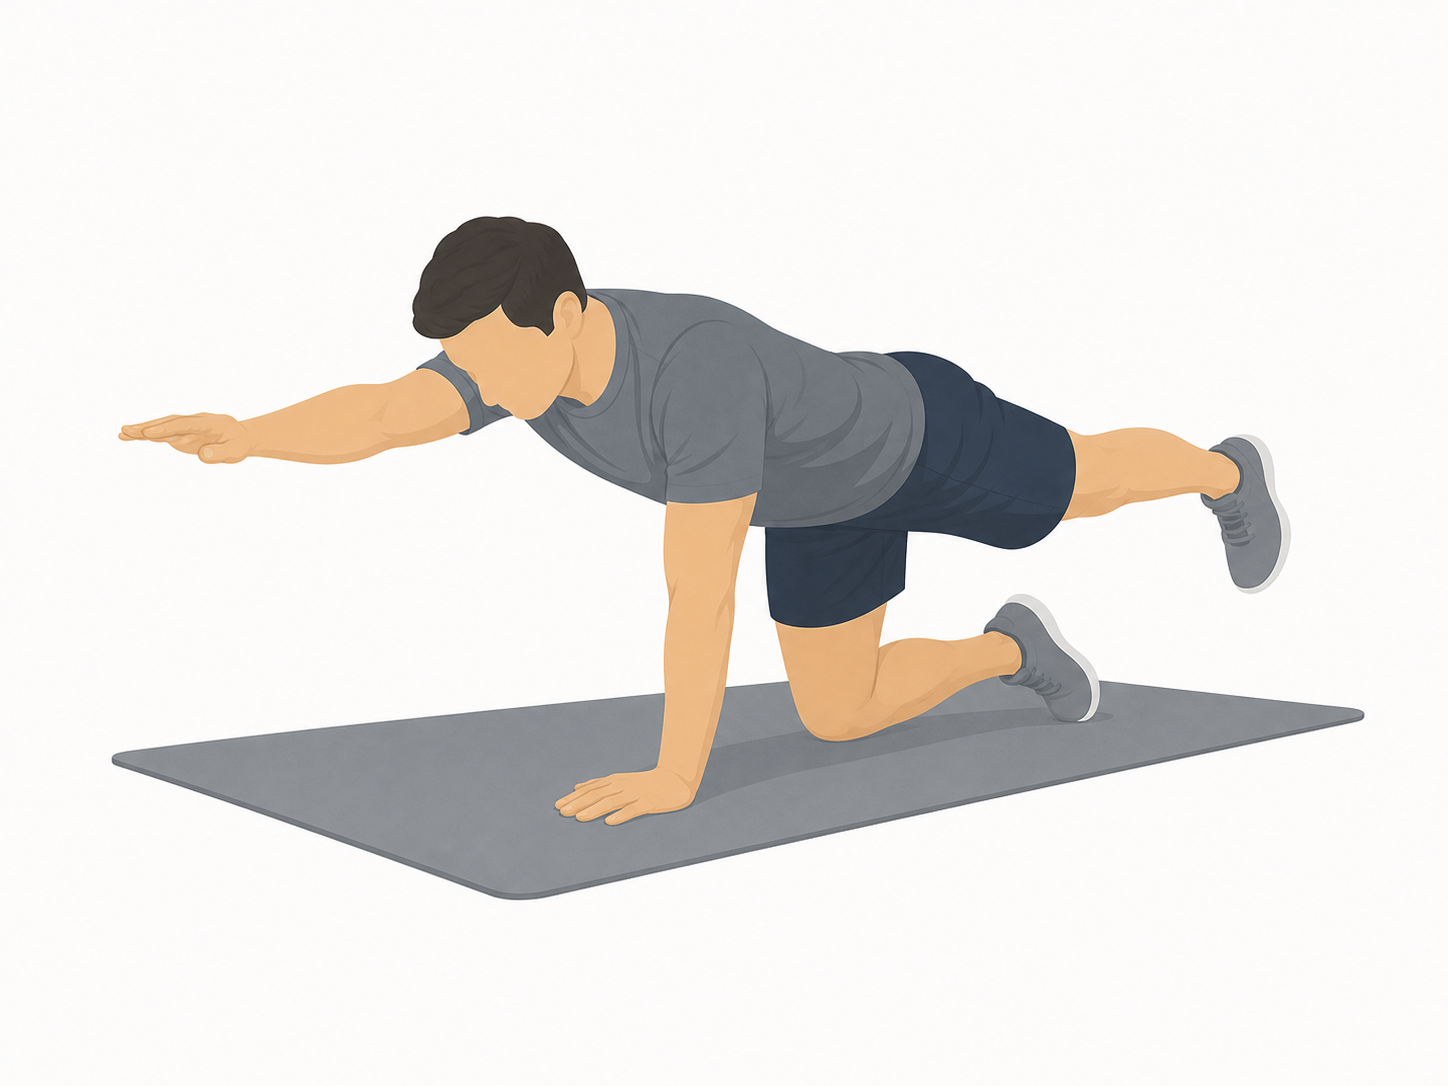
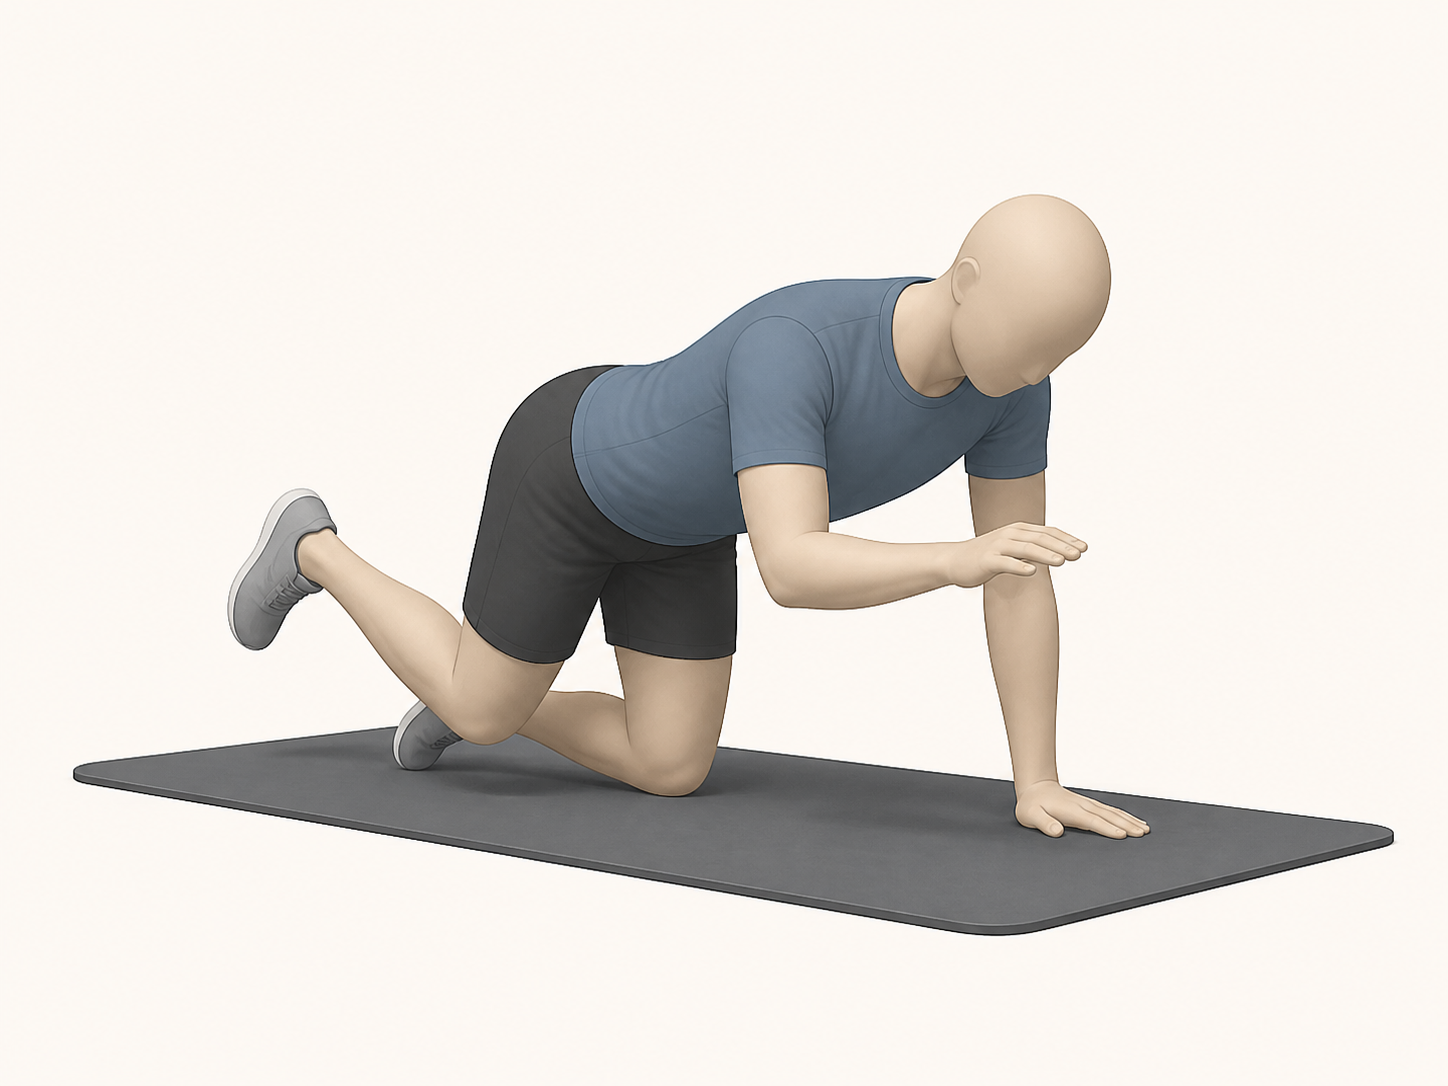
Resolve M2 top-five image review findings
Updates M2 audit scoring to the approved 1-5 range, adds regression checks for score scale drift, replaces the bird dog short-reach asset with a visibly smaller-range image, and routes M2 back to code review.

Validation: python3 -m unittest tests.test_exercise_image_standard tests.test_markdown_first_real_pages

Validation: python3 tools/checks/check_markdown_first.py exercises media/PROVENANCE.md docs/changes/2026-07-06-top-five-generated-images-for-fewer-than-five-exercise-documents docs/plan.md docs/plans/2026-07-06-top-five-generated-images-for-fewer-than-five-exercise-documents.md

Validation: python3 tools/checks/check_privacy.py exercises media/PROVENANCE.md media/prompts docs/changes/2026-07-06-top-five-generated-images-for-fewer-than-five-exercise-documents docs/plan.md docs/plans/2026-07-06-top-five-generated-images-for-fewer-than-five-exercise-documents.md

Validation: git diff --check

diff --git a/tests/test_exercise_image_standard.py b/tests/test_exercise_image_standard.py
@@ -1,5 +1,6 @@
 from pathlib import Path
 import os
+import re
 import subprocess
 import sys
 import tempfile
@@ -1187,6 +1188,21 @@ class ExerciseImageStandardTest(unittest.TestCase):
 
         audit_path = ROOT / "docs/changes/2026-07-06-top-five-generated-images-for-fewer-than-five-exercise-documents/evidence/m2-first-batch-audit.md"
         audit_text = audit_path.read_text(encoding="utf-8")
+        self.assertIn("Scores use 1-5 values", audit_text)
+        self.assertNotIn("Scores use 0-3 values", audit_text)
+        score_rows = [
+            row
+            for row in audit_text.splitlines()
+            if re.match(r"\| \d+ \|", row)
+        ]
+        self.assertGreaterEqual(len(score_rows), 20)
+        for row in score_rows:
+            cells = [cell.strip() for cell in row.strip("|").split("|")]
+            scores = [int(value) for value in cells[2:7]]
+            with self.subTest(row=row):
+                self.assertTrue(all(1 <= score <= 5 for score in scores))
+                self.assertNotIn(0, scores)
+
         for token in (
             "`exercises/band-pull-apart.md`",
             "`exercises/bird-dog.md`",

diff --git a/docs/changes/2026-07-06-top-five-generated-images-for-fewer-than-five-exercise-documents/evidence/m2-first-batch-audit.md b/docs/changes/2026-07-06-top-five-generated-images-for-fewer-than-five-exercise-documents/evidence/m2-first-batch-audit.md
@@ -16,38 +16,38 @@ This pairs one page with existing modern exercise images and one page with an ac
 
 ## Candidate scoring matrix
 
-Scores use 0-3 values for `beginner_comprehension`, `setup_value`, `muscle_attention_value`, `page_value`, and `readiness`.
+Scores use 1-5 values for `beginner_comprehension`, `setup_value`, `muscle_attention_value`, `page_value`, and `readiness`.
 Disposition values follow the M1 audit framework.
 
 ### `exercises/band-pull-apart.md`
 
 | Rank | Candidate | beginner_comprehension | setup_value | muscle_attention_value | page_value | readiness | Disposition | Rationale |
 |---:|---|---:|---:|---:|---:|---:|---|---|
-| 1 | Existing `muscle-attention.png` | 3 | 0 | 3 | 3 | 3 | existing_accepted | Broad upper-back and rear-shoulder reference already supports the muscle section. |
-| 2 | Existing `movement.png` | 3 | 1 | 0 | 3 | 3 | existing_accepted | Two-panel start and finish reference already supports the movement section. |
-| 3 | New `setup.png` | 3 | 3 | 0 | 3 | 3 | generate_now | Adds distinct setup coverage for band slack, stance, and chest-height start. |
-| 4 | New `quiet-ribs-neck.png` | 3 | 1 | 0 | 3 | 3 | generate_now | Adds posture-control coverage for neck, ribs, and arm height without duplicating muscle attention. |
-| 5 | Generated chest-height path candidate | 2 | 1 | 0 | 1 | 2 | rejected_duplicate_coverage | Too close to the existing movement reference after visual inspection. |
-| 6 | Grip-width close-up | 2 | 2 | 0 | 1 | 1 | defer | Could be useful later but is not needed for the same page section in this batch. |
-| 7 | Easier lighter-band variation | 2 | 1 | 0 | 1 | 1 | defer | The written easier-version note is sufficient for now. |
-| 8 | Return-control view | 2 | 0 | 0 | 1 | 1 | defer | Movement reference already covers the return concept indirectly. |
-| 9 | Side-view rib position | 2 | 1 | 0 | 1 | 1 | defer | Would compete with the promoted posture-control image. |
-| 10 | Equipment-only band image | 1 | 1 | 0 | 0 | 1 | reject | Equipment is simple enough in Markdown and setup image. |
+| 1 | Existing `muscle-attention.png` | 5 | 1 | 5 | 5 | 5 | existing_accepted | Broad upper-back and rear-shoulder reference already supports the muscle section. |
+| 2 | Existing `movement.png` | 5 | 2 | 1 | 5 | 5 | existing_accepted | Two-panel start and finish reference already supports the movement section. |
+| 3 | New `setup.png` | 5 | 5 | 1 | 5 | 5 | generate_now | Adds distinct setup coverage for band slack, stance, and chest-height start. |
+| 4 | New `quiet-ribs-neck.png` | 5 | 2 | 1 | 5 | 5 | generate_now | Adds posture-control coverage for neck, ribs, and arm height without duplicating muscle attention. |
+| 5 | Generated chest-height path candidate | 3 | 2 | 1 | 2 | 3 | rejected_duplicate_coverage | Too close to the existing movement reference after visual inspection. |
+| 6 | Grip-width close-up | 3 | 3 | 1 | 2 | 2 | defer | Could be useful later but is not needed for the same page section in this batch. |
+| 7 | Easier lighter-band variation | 3 | 2 | 1 | 2 | 2 | defer | The written easier-version note is sufficient for now. |
+| 8 | Return-control view | 3 | 1 | 1 | 2 | 2 | defer | Movement reference already covers the return concept indirectly. |
+| 9 | Side-view rib position | 3 | 2 | 1 | 2 | 2 | defer | Would compete with the promoted posture-control image. |
+| 10 | Equipment-only band image | 1 | 2 | 1 | 1 | 2 | reject | Equipment is simple enough in Markdown and setup image. |
 
 ### `exercises/bird-dog.md`
 
 | Rank | Candidate | beginner_comprehension | setup_value | muscle_attention_value | page_value | readiness | Disposition | Rationale |
 |---:|---|---:|---:|---:|---:|---:|---|---|
-| 1 | Existing `bird-dog-sequence.png` | 3 | 2 | 0 | 3 | 3 | existing_accepted | Sequence image already covers setup, reach, and a common form reference. |
-| 2 | New `setup.png` | 3 | 3 | 0 | 3 | 3 | generate_now | Adds a larger standalone setup reference. |
-| 3 | New `level-pelvis-reach.png` | 3 | 1 | 0 | 3 | 3 | generate_now | Adds a larger standalone controlled reach reference. |
-| 4 | New `short-reach.png` | 3 | 1 | 0 | 3 | 3 | generate_now | Supports the written shorter-reach cue. |
-| 5 | New `muscle-attention.png` | 3 | 0 | 3 | 3 | 3 | generate_now | Adds the only muscle-attention image for the page. |
-| 6 | Hands-and-knees side close-up | 2 | 2 | 0 | 1 | 1 | defer | Standalone setup image provides enough setup value. |
-| 7 | Knee-only support detail | 1 | 1 | 0 | 0 | 1 | reject | Too narrow for beginner comprehension. |
-| 8 | Slow-return frame | 2 | 0 | 0 | 1 | 1 | defer | Movement text already covers the return. |
-| 9 | Side-switching view | 2 | 0 | 0 | 1 | 1 | defer | Mirror-side detail is not necessary for this page. |
-| 10 | Mat-only setup cue | 1 | 1 | 0 | 0 | 1 | reject | Equipment is simple enough in Markdown. |
+| 1 | Existing `bird-dog-sequence.png` | 5 | 4 | 1 | 5 | 5 | existing_accepted | Sequence image already covers setup, reach, and a common form reference. |
+| 2 | New `setup.png` | 5 | 5 | 1 | 5 | 5 | generate_now | Adds a larger standalone setup reference. |
+| 3 | New `level-pelvis-reach.png` | 5 | 2 | 1 | 5 | 5 | generate_now | Adds a larger standalone controlled reach reference. |
+| 4 | New `short-reach.png` | 5 | 3 | 1 | 5 | 5 | generate_now | Supports the written shorter-reach cue. |
+| 5 | New `muscle-attention.png` | 5 | 1 | 5 | 5 | 5 | generate_now | Adds the only muscle-attention image for the page. |
+| 6 | Hands-and-knees side close-up | 3 | 3 | 1 | 2 | 2 | defer | Standalone setup image provides enough setup value. |
+| 7 | Knee-only support detail | 1 | 2 | 1 | 1 | 2 | reject | Too narrow for beginner comprehension. |
+| 8 | Slow-return frame | 3 | 1 | 1 | 2 | 2 | defer | Movement text already covers the return. |
+| 9 | Side-switching view | 3 | 1 | 1 | 2 | 2 | defer | Mirror-side detail is not necessary for this page. |
+| 10 | Mat-only setup cue | 1 | 2 | 1 | 1 | 2 | reject | Equipment is simple enough in Markdown. |
 
 ## Visual and contract evidence
 
@@ -57,7 +57,7 @@ Disposition values follow the M1 audit framework.
 | `media/exercises/band-pull-apart/quiet-ribs-neck.png` | What you should feel | No embedded writing, no brand marks, faceless figure, distinct posture-control purpose. |
 | `media/exercises/bird-dog/setup.png` | Equipment and setup | No embedded writing, no brand marks, faceless figure, clear hands-and-knees setup. |
 | `media/exercises/bird-dog/level-pelvis-reach.png` | Movement phases | No embedded writing, no brand marks, faceless figure, clear opposite arm and leg reach. |
-| `media/exercises/bird-dog/short-reach.png` | Important notes | No embedded writing, no brand marks, faceless figure, smaller controlled reach. |
+| `media/exercises/bird-dog/short-reach.png` | Important notes | No embedded writing, no brand marks, faceless figure, visibly smaller controlled reach with bent reaching limbs. |
 | `media/exercises/bird-dog/muscle-attention.png` | Used muscles | No embedded writing, no brand marks, faceless figure, broad attention regions only. |
 
 ## Rollback proof

diff --git a/docs/plans/2026-07-06-top-five-generated-images-for-fewer-than-five-exercise-documents.md b/docs/plans/2026-07-06-top-five-generated-images-for-fewer-than-five-exercise-documents.md
@@ -48,13 +48,13 @@ Repository-local `human_reviewer`, review-owner, visual-safety-review evidence, 
 ## Current Handoff Summary
 
 - Current milestone: M2
-- Current milestone state: resolution-needed
+- Current milestone state: review-requested
 - Last reviewed milestone: M1
-- Review status: code-review R3 changes-requested; M2 review-resolution required
+- Review status: code-review R3 changes-requested; M2 review-resolution completed
 - Remaining in-scope implementation milestones: M2, M3
-- Next stage: review-resolution for M2
+- Next stage: code-review M2 rereview
 - Final closeout readiness: not ready
-- Reason final closeout is or is not ready: M2 has unresolved code-review findings and M3 implementation, code-review, explain-change, verify, and PR handoff remain.
+- Reason final closeout is or is not ready: M2 needs rereview and M3 implementation, code-review, explain-change, verify, and PR handoff remain.
 
 ## Milestones
 
@@ -86,7 +86,7 @@ Repository-local `human_reviewer`, review-owner, visual-safety-review evidence, 
 
 ### M2. First Milestone Batch Images
 
-- Milestone state: resolution-needed
+- Milestone state: review-requested
 - Goal: Audit and implement generated-image gaps for the first batch of included exercise documents.
 - Requirements: R1-R30
 - Files/components likely touched:
@@ -204,6 +204,14 @@ Each milestone must report exact commands and outcomes before code-review.
 - M2 code-review R3 reviewer validation: `python3 tools/checks/check_privacy.py exercises media media/PROVENANCE.md docs/changes/2026-07-06-top-five-generated-images-for-fewer-than-five-exercise-documents` passed with 107 files.
 - M2 code-review R3 reviewer validation: `python3 tools/checks/check_markdown_first.py exercises media/PROVENANCE.md docs/changes/2026-07-06-top-five-generated-images-for-fewer-than-five-exercise-documents` passed with 32 Markdown files.
 - M2 code-review R3 reviewer validation: `git diff --check` passed.
+- M2 review-resolution for CR-T5IMG-M2-1: `python3 -m unittest tests.test_exercise_image_standard tests.test_markdown_first_real_pages` passed with 68 tests.
+- M2 review-resolution for CR-T5IMG-M2-1: `python3 tools/checks/check_markdown_first.py exercises media/PROVENANCE.md docs/changes/2026-07-06-top-five-generated-images-for-fewer-than-five-exercise-documents` passed.
+- M2 review-resolution for CR-T5IMG-M2-1: `python3 tools/checks/check_privacy.py exercises media/PROVENANCE.md media/prompts docs/changes/2026-07-06-top-five-generated-images-for-fewer-than-five-exercise-documents` passed.
+- M2 review-resolution for CR-T5IMG-M2-1: `git diff --check` passed.
+- M2 review-resolution for CR-T5IMG-M2-2: `python3 -m unittest tests.test_exercise_image_standard tests.test_markdown_first_real_pages` passed with 68 tests.
+- M2 review-resolution for CR-T5IMG-M2-2: `python3 tools/checks/check_markdown_first.py exercises media/PROVENANCE.md docs/changes/2026-07-06-top-five-generated-images-for-fewer-than-five-exercise-documents` passed.
+- M2 review-resolution for CR-T5IMG-M2-2: `python3 tools/checks/check_privacy.py exercises media/PROVENANCE.md media/prompts docs/changes/2026-07-06-top-five-generated-images-for-fewer-than-five-exercise-documents` passed.
+- M2 review-resolution for CR-T5IMG-M2-2: `git diff --check` passed.
 
 ## Outcome and retrospective
 
@@ -211,7 +219,7 @@ Not started.
 
 ## Readiness
 
-M2 needs review-resolution. M3 remains pending and must not start until M2 passes rereview.
+M2 review-resolution is complete and ready for rerun code-review. M3 remains pending and must not start until M2 passes rereview.
 
 ## Sources
 

diff --git a/docs/changes/2026-07-06-top-five-generated-images-for-fewer-than-five-exercise-documents/review-resolution.md b/docs/changes/2026-07-06-top-five-generated-images-for-fewer-than-five-exercise-documents/review-resolution.md
@@ -2,7 +2,7 @@
 
 ## Status
 
-open
+resolved
 
 ## Open Findings
 
@@ -11,8 +11,8 @@ open
 | PR-T5IMG-1 | resolved | Owner decision recorded: this initiative does not require repository-local `human_reviewer`, review-owner, visual-safety-review evidence, or replacement accountability artifacts. Human review happens through PR merge outside repository validation. |
 | CR-T5IMG-M1-1 | resolved | `SCORE_FIELDS`, tests, fixtures, and M1 audit framework now use `setup_value`; regression coverage proves a named top-five audit with `setup_value` passes and a record missing it fails. |
 | CR-T5IMG-M1-2 | resolved | Rank 1-5 `automatic_generation` now fails in all contexts; named top-five regression coverage proves `generate_now` and `first_generation_candidate` still pass. |
-| CR-T5IMG-M2-1 | open | M2 audit scoring must use the approved 1-5 score range, and tests or evidence must prevent reintroducing 0-3 scoring. |
-| CR-T5IMG-M2-2 | open | `bird-dog/short-reach.png` must visibly support the shorter-reach teaching purpose or the page must record a coverage-limit outcome below five. |
+| CR-T5IMG-M2-1 | resolved | M2 audit scoring now uses the approved 1-5 score range, and regression coverage fails on 0-3 scale text or `0` score cells. |
+| CR-T5IMG-M2-2 | resolved | `bird-dog/short-reach.png` was replaced with a visibly smaller-reach image, and the prompt record selected-output notes were updated. |
 
 ## Resolution Notes
 
@@ -25,6 +25,9 @@ open
 - Added named-initiative regression coverage proving `automatic_generation` fails while `generate_now` and `first_generation_candidate` pass.
 - M1 is ready for rerun code-review.
 - 2026-07-06: Code-review R3 opened CR-T5IMG-M2-1 and CR-T5IMG-M2-2. M2 is in review-resolution before M3 can start.
+- 2026-07-06: Resolved CR-T5IMG-M2-1 by updating the M2 audit evidence to the approved 1-5 scale and adding regression assertions that reject the old 0-3 scale text and any `0` candidate score cells.
+- 2026-07-06: Resolved CR-T5IMG-M2-2 by replacing `media/exercises/bird-dog/short-reach.png` with a newly generated shorter-range image and updating the prompt record selected-output notes.
+- M2 is ready for rerun code-review.
 
 ## Validation
 
@@ -32,8 +35,13 @@ open
 - `python3 tools/checks/check_markdown_first.py docs/changes/2026-07-06-top-five-generated-images-for-fewer-than-five-exercise-documents docs/plan.md docs/plans/2026-07-06-top-five-generated-images-for-fewer-than-five-exercise-documents.md` passed.
 - `python3 tools/checks/check_privacy.py docs/changes/2026-07-06-top-five-generated-images-for-fewer-than-five-exercise-documents docs/plan.md docs/plans/2026-07-06-top-five-generated-images-for-fewer-than-five-exercise-documents.md` passed.
 - `git diff --check` passed.
+- `python3 -m unittest tests.test_exercise_image_standard tests.test_markdown_first_real_pages` passed with 68 tests after M2 review-resolution.
+- `python3 tools/checks/check_markdown_first.py exercises media/PROVENANCE.md docs/changes/2026-07-06-top-five-generated-images-for-fewer-than-five-exercise-documents` passed after M2 review-resolution.
+- `python3 tools/checks/check_privacy.py exercises media/PROVENANCE.md media/prompts docs/changes/2026-07-06-top-five-generated-images-for-fewer-than-five-exercise-documents` passed after M2 review-resolution.
+- `git diff --check` passed after M2 review-resolution.
 
 ## Sources
 
 - `docs/changes/2026-07-06-top-five-generated-images-for-fewer-than-five-exercise-documents/reviews/proposal-review-r1.md`
 - `docs/changes/2026-07-06-top-five-generated-images-for-fewer-than-five-exercise-documents/reviews/code-review-r1.md`
+- `docs/changes/2026-07-06-top-five-generated-images-for-fewer-than-five-exercise-documents/reviews/code-review-r3.md`

diff --git a/media/prompts/exercises/bird-dog/short-reach.md b/media/prompts/exercises/bird-dog/short-reach.md
@@ -10,15 +10,15 @@ review_status: approved
 
 Use case: scientific-educational
 Asset type: GymPrimer exercise support image for media/exercises/bird-dog/short-reach.png
-Primary request: Create a clean bird dog easier-range movement illustration.
-Subject: simplified faceless adult mannequin on hands and knees on a plain mat, one arm and opposite leg reaching only a short distance from the floor, trunk steady, pelvis level, gaze down.
+Primary request: Create a clean bird dog easier-range movement illustration that visibly shows a much smaller range than a full bird dog.
+Subject: simplified faceless adult mannequin on hands and knees on a plain mat, one support hand and the opposite support knee planted, the reaching arm only partly lifted with a softly bent elbow, the hand hovering just a short distance in front of the shoulder, the opposite reaching leg only partly lifted with a softly bent knee, the foot hovering just a short distance behind the hip, trunk steady, pelvis level, gaze down.
 Style/medium: high-quality flat editorial exercise illustration, neutral background, no text, no labels, no arrows, no logos.
 Composition/framing: side-front three-quarter view, full body on mat visible, landscape-friendly 4:3.
 Lighting/mood: bright, clear, calm instructional.
 Color palette: neutral background, muted clothing, muted mat.
-Constraints: show a shorter controlled reach as an easier version without labels or comparison badges; non-clinical and beginner-friendly.
-Avoid: in-image text, labels, warning badges, red pain marks, before/after framing, logos, brand marks, photorealistic identity, exaggerated muscles, clinical treatment framing.
+Constraints: show a shorter controlled reach as an easier version without labels or comparison badges; keep the lifted hand and foot close to the floor and close to the body; non-clinical and beginner-friendly.
+Avoid: in-image text, labels, warning badges, red pain marks, before/after framing, logos, brand marks, photorealistic identity, exaggerated muscles, clinical treatment framing, fully straight reaching arm, fully straight reaching leg, high leg lift.
 
 ## Selected-output notes
 
-Accepted because the generated image supports the page cue that a smaller reach can preserve control.
+Accepted after CR-T5IMG-M2-2 resolution because the replacement image visibly shows a smaller bird-dog range with bent reaching limbs close to the body and no embedded writing, labels, brand marks, or identifying features.

diff --git a/docs/plan.md b/docs/plan.md
@@ -5,8 +5,8 @@
 - [Top-Five Generated Images for Fewer-Than-Five Exercise Documents](plans/2026-07-06-top-five-generated-images-for-fewer-than-five-exercise-documents.md)
   - Status: reviewed
   - Plan lifecycle state: active
-  - Current stage: review-resolution
-  - Active context: M1 is closed after clean code-review R2; M2 code-review R3 requested changes for audit scoring and the bird dog shorter-reach image. M3 remains pending.
+  - Current stage: code-review
+  - Active context: M1 is closed after clean code-review R2; M2 review-resolution addressed audit scoring and the bird dog shorter-reach image, so M2 rereview is next. M3 remains pending.
 
 - [Brisk Walking and Everyday Walking Guidance](plans/2026-07-05-brisk-walking-and-everyday-walking.md)
   - Status: reviewed

diff --git a/docs/changes/2026-07-06-top-five-generated-images-for-fewer-than-five-exercise-documents/review-log.md b/docs/changes/2026-07-06-top-five-generated-images-for-fewer-than-five-exercise-documents/review-log.md
@@ -13,6 +13,7 @@
 | 2026-07-06 | review-resolution | [review-resolution](review-resolution.md) | resolved | CR-T5IMG-M1-1, CR-T5IMG-M1-2 | M1 code-review findings resolved; rerun code-review is next. |
 | 2026-07-06 | code-review | [code-review-r2](reviews/code-review-r2.md) | clean-with-notes | none | M1 closed; M2 implementation is next. |
 | 2026-07-06 | code-review | [code-review-r3](reviews/code-review-r3.md) | changes-requested | CR-T5IMG-M2-1, CR-T5IMG-M2-2 | M2 needs review-resolution before M3 implementation. |
+| 2026-07-06 | review-resolution | [review-resolution](review-resolution.md) | resolved | CR-T5IMG-M2-1, CR-T5IMG-M2-2 | M2 findings resolved; rerun code-review is next. |
 
 ## Sources
 